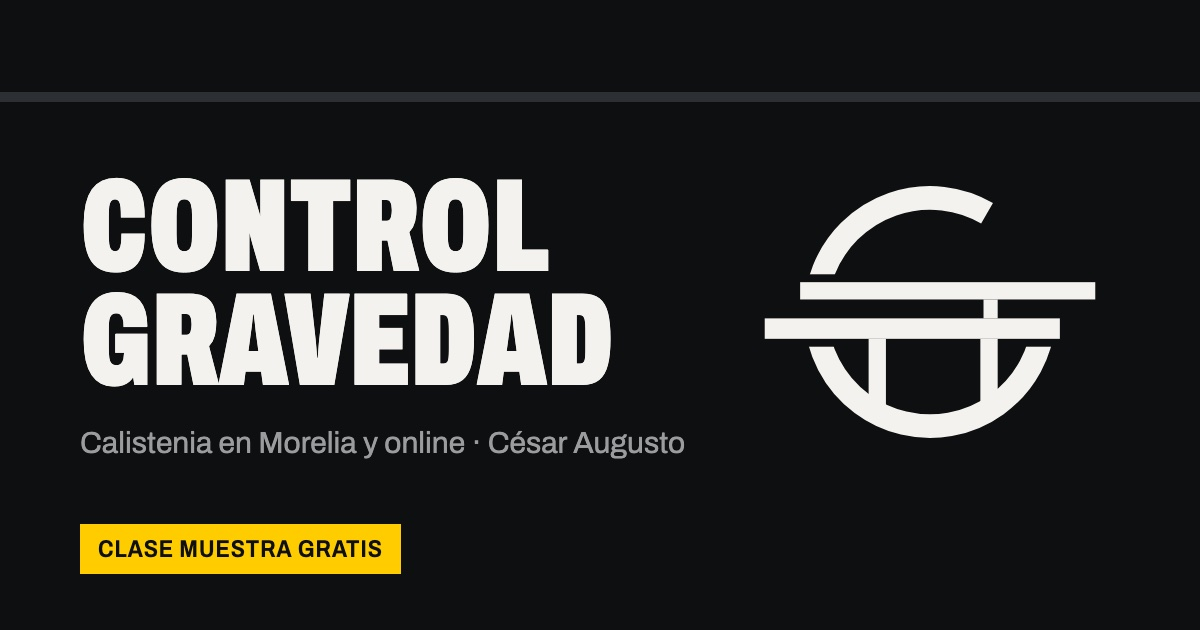
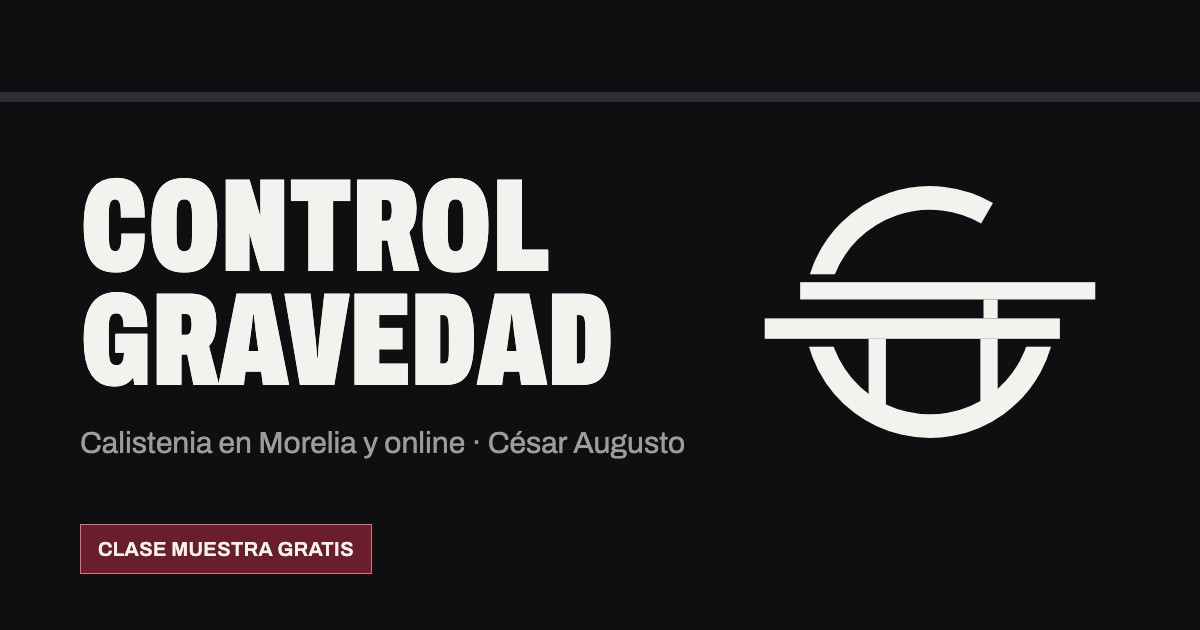
feat(T3.10): acento vino de la guía de marca
- signal: amarillo → vino #6A1E2B (hover burdeos #4F111E) con texto chalk
- signal-glow #E0707F para foco, cursor, checkbox y enlaces sobre acero
- foco en vino oscuro en las secciones claras (utilidad on-light)
- resplandor vino fijo en el CTA primario (única sombra del sistema)
- error sobre oscuro a naranja #FFA057; og-image con la etiqueta vino
- DESIGN.md, spec (T3.10, D-10, v0.9.2) y CLAUDE.md actualizados
- e2e nueva: colores del CTA y del foco en ambas superficies

Changed region(s): [[0.0617, 0.8143, 0.3392, 0.9349]]

diff --git a/src/styles/global.css b/src/styles/global.css
@@ -31,8 +31,8 @@
 }
 
 /*
- * Tokens de DESIGN.md («Gis y acero»). La paleta es provisional (spec D-10):
- * cambiarla es editar solo este bloque.
+ * Tokens de DESIGN.md («Gis y acero»). Acento vino de la guía de marca
+ * (Brand Guidelines Vol. 1, spec D-10): cambiarlo es editar solo este bloque.
  */
 @theme {
   /* Solo existen los colores de la marca. */
@@ -44,10 +44,11 @@
   --color-concrete-600: #4a4d50;
   --color-concrete-100: #d9d8d4;
   --color-chalk: #f3f2ee;
-  --color-signal: #ffcc00;
-  --color-signal-strong: #e6b800;
+  --color-signal: #6a1e2b;
+  --color-signal-strong: #4f111e;
+  --color-signal-glow: #e0707f;
   --color-whatsapp: #25d366;
-  --color-error-on-dark: #ff7a66;
+  --color-error-on-dark: #ffa057;
   --color-error-on-light: #b42318;
   --color-transparent: transparent;
   --color-current: currentColor;
@@ -116,6 +117,17 @@
   }
 
   --tap-min: 44px;
+
+  /* Resplandor vino del CTA primario: canto de 1 px (3:1+ sobre acero) y halo. */
+  --shadow-glow:
+    inset 0 0 0 1px var(--color-signal-glow),
+    0 10px 32px -10px
+      color-mix(in oklab, var(--color-signal-glow) 45%, transparent);
+}
+
+/* Secciones de concreto claro: el foco usa el vino oscuro (8:1), no el claro. */
+@utility on-light {
+  --focus-ring: var(--color-signal);
 }
 
 /* Grano de pizarrón/concreto: textura estática detrás del contenido. */
@@ -185,11 +197,11 @@
 
   ::selection {
     background-color: var(--color-signal);
-    color: var(--color-steel-950);
+    color: var(--color-chalk);
   }
 
   :focus-visible {
-    outline: 2px solid var(--color-signal);
+    outline: 2px solid var(--focus-ring, var(--color-signal-glow));
     outline-offset: 3px;
   }
 
@@ -201,7 +213,7 @@
   input,
   textarea,
   select {
-    caret-color: var(--color-signal);
+    caret-color: var(--color-signal-glow);
   }
 
   h1,

diff --git a/tests/e2e/theme.spec.ts b/tests/e2e/theme.spec.ts
@@ -1,0 +1,33 @@
+import { test, expect } from '@playwright/test';
+
+// Acento vino (D-10): el texto sobre el vino es claro y el foco se ve en las
+// dos superficies (vino claro sobre acero, vino oscuro sobre concreto).
+const WINE = 'rgb(106, 30, 43)';
+const WINE_GLOW = 'rgb(224, 112, 127)';
+const CHALK = 'rgb(243, 242, 238)';
+
+test.use({ reducedMotion: 'reduce' });
+
+test('el CTA primario es vino con texto claro', async ({ page }) => {
+  await page.goto('/');
+  const cta = page.locator('#contenido [data-track="whatsapp"]').first();
+  await expect(cta).toHaveCSS('background-color', WINE);
+  await expect(cta).toHaveCSS('color', CHALK);
+});
+
+test('el foco es vino claro sobre acero y vino oscuro sobre concreto', async ({
+  page,
+}) => {
+  await page.goto('/');
+  await page.keyboard.press('Tab');
+  await expect(page.locator(':focus-visible')).toHaveCSS(
+    'outline-color',
+    WINE_GLOW,
+  );
+
+  const summary = page.locator('#faq summary').first();
+  await summary.focus();
+  await page.keyboard.press('Shift+Tab');
+  await page.keyboard.press('Tab');
+  await expect(summary).toHaveCSS('outline-color', WINE);
+});

diff --git a/spec-drive.md b/spec-drive.md
@@ -256,8 +256,8 @@ type FaqItem   = { q: string; a: string };
 
 - La dirección visual la define **Impeccable** en modo *Persuade* y queda en `DESIGN.md` (tokens, tipografía, espaciado, componentes, movimiento). `PRODUCT.md` guarda el contexto de negocio (§1–2 de este spec).
 - Punto de partida (puede cambiar en T1.2): estilo oscuro, enérgico y deportivo; fotos protagonistas; un solo color de acento; `#25D366` reservado para WhatsApp.
-- **Dirección elegida en T1.2: «Gis y acero»** (acero negro mate, magnesia, concreto y un acento amarillo de seguridad; Archivo Variable condensada para titulares). Detalle en `DESIGN.md`. El coach había pedido tipografía elegante; el usuario levantó esa restricción al elegir esta dirección (2026-10-19).
-- **Paleta provisional (D-10):** un diseñador está definiendo la paleta oficial de la marca. Mientras llega, T1.2 propone una paleta provisional y la página se construye con ella. Por eso ningún componente usa colores sueltos: cambiar la paleta debe ser editar solo los tokens de `DESIGN.md` y `@theme`.
+- **Dirección elegida en T1.2: «Gis y acero»** (acero negro mate, magnesia, concreto y un acento amarillo de seguridad, reemplazado el 2026-10-25 por el vino de la guía de marca; Archivo Variable condensada para titulares). Detalle en `DESIGN.md`. El coach había pedido tipografía elegante; el usuario levantó esa restricción al elegir esta dirección (2026-10-19).
+- **Paleta (D-10):** T1.2 propuso una paleta provisional con acento amarillo. El 2026-10-25 llegó la guía de marca (*Brand Guidelines Vol. 1*): vino `#6A1E2B`, burdeos `#4F111E`, negro y blanco, y el amarillo se reemplazó por el vino (T3.10). Los hex se leyeron de una imagen y están por confirmar con el diseñador. Ningún componente usa colores sueltos: cambiar la paleta debe ser editar solo los tokens de `DESIGN.md` y `@theme`.
 - Los tokens de `DESIGN.md` se trasladan 1:1 a `@theme` en `global.css`. Ningún componente usa colores sueltos.
 
 ## 11. Infraestructura y despliegue (Vercel)
@@ -374,6 +374,7 @@ Cada tarea se cierra con el ciclo de §13 y su prueba e2e.
 - **T3.7 · ✅ Ola 1 · Más gis** (pedido del usuario, 2026-10-24): clases por semana dibujadas como marcas de gis en los paquetes, trazos de gis en los títulos, nube de magnesia al tocar WhatsApp, palomitas de gis en el formulario y la FAQ, y grano de pizarrón en los fondos. Motor en `src/lib/chalk.ts`.
 - **T3.8 · ✅ Ola 2 · Contar el método** (2026-10-24): línea de gis entre los 3 pasos ligada al scroll, ciclo Carga & Descarga interactivo (radios nativos + `:has()`, funciona sin JS), cinta de disciplinas que avanza solo con el scroll y transición entre páginas (View Transitions, el header persiste).
 - **T3.9 · ✅ Ola 3 · Firma** (2026-10-24): el título del Hero «siente la gravedad» bajo el puntero, la foto colgante responde con física de péndulo y anotaciones a mano informativas en Kalam recortada (14 KB; segunda familia de RNF-05), que se carga al acercarse para no afectar el LCP. *(Lighthouse: 99/100/100/100, LCP 1.88 s, CLS 0; 239 e2e en verde; JS propio ≈ 4.4 KB gzip.)*
+- **T3.10 · ✅ Acento vino de la guía de marca** (2026-10-25, branch `red-theme`) — D-10, RNF-06: `signal` pasa del amarillo al vino `#6A1E2B` (hover en burdeos `#4F111E`) con texto `chalk` encima; nuevo `signal-glow` `#E0707F` para foco, cursor y enlaces sobre acero; foco en vino oscuro en las secciones claras (`on-light`); resplandor vino en el CTA primario (única sombra del sistema); error sobre oscuro a naranja `#FFA057`. *(Tipografía de la guía, Momentum Grotesk, fuera de alcance: se queda Archivo. 275 e2e en verde, axe incluido.)*
 
 ### Fase 4 — QA y lanzamiento (→ M5)
 - **T4.1 · ✅ Completar la suite e2e** (sin JS, reduced motion, axe, WebKit) — RNF-06–08, RNF-11.
@@ -467,7 +468,7 @@ Cada tarea se cierra con el ciclo de §13 y su prueba e2e.
 - [ ] [[PENDIENTE]] Restricciones y políticas (edad mínima, salud, cupo, cancelaciones).
 - [ ] [[PENDIENTE]] Prueba social: testimonios, antes y después, número de alumnos.
 - [ ] [[PENDIENTE]] Logo.
-- [ ] [[PENDIENTE]] Paleta oficial: la define un diseñador externo (D-10); mientras tanto se usa una provisional.
+- [ ] [[PENDIENTE]] Paleta oficial: aplicada la de la guía de marca Vol. 1 (vino `#6A1E2B`, burdeos `#4F111E`); falta que el diseñador confirme los hex exactos (D-10).
 - [x] Tipografía: restricción de "elegante" levantada por el usuario en T1.2; se usa Archivo (§10, `DESIGN.md`).
 - [ ] [[PENDIENTE]] Logo en SVG oficial. Mientras tanto, `src/components/ui/Logo.astro` es un redibujo vectorial del de 150 px (también en `favicon.svg` y `og-image.jpg`).
 - [ ] [[PENDIENTE]] Preguntas frecuentes que recibe por DM.
@@ -509,7 +510,7 @@ Leyenda: 🔴 bloquea el inicio · 🟠 bloquea el diseño (T1.2) · 🟢 bloque
 | D-07 | ~~¿Dónde está publicado el sitio actual?~~ | ✅ **Resuelta: en Netlify**; se migra a Vercel (§11.1) | — |
 | D-08 | ~~¿El sitio de Netlify usa dominio propio?~~ | ✅ **Resuelta: no, usa `*.netlify.app`**. La migración es por redirección 301 (§11.1) | — |
 | D-09 | ¿Comprar un dominio propio (ej. `controlgravedad.mx`)? | Opcional, después de v1. Mejora la confianza y el SEO; en Vercel Hobby no cuesta conectarlo | — |
-| D-10 | Paleta de colores oficial | Paleta provisional propuesta en T1.2; se reemplaza por la del diseñador del coach cuando llegue (solo tokens) | Nada (el cambio llega después) |
+| D-10 | Paleta de colores oficial | Aplicada la guía de marca Vol. 1 (T3.10, 2026-10-25): acento vino en lugar del amarillo provisional. Falta confirmar los hex con el diseñador (solo tokens) | Nada (si cambian, solo tokens) |
 
 ## 19. Riesgos
 
@@ -541,3 +542,4 @@ Leyenda: 🔴 bloquea el inicio · 🟠 bloquea el diseño (T1.2) · 🟢 bloque
 | v0.8 | 2026-10-19 | T3.6: sistema de movimiento «Peso y control» (reemplaza la regla de un solo momento propio de `DESIGN.md`) |
 | v0.9 | 2026-10-24 | T3.7–T3.9: tres olas de movimiento y gis (marcas por semana, títulos marcados, nube de magnesia, línea entre pasos, ciclo interactivo, cinta de disciplinas, View Transitions, título con gravedad, foto con física, anotaciones en Kalam) |
 | v0.9.1 | 2026-10-24 | Contenido e imágenes demo con aviso visible de lo que falta (sin datos comerciales inventados); `[[PENDIENTE]]` conservados en comentarios |
+| v0.9.2 | 2026-10-25 | `nuevo-sitio` eliminada (era idéntica a `main`); el trabajo sigue en branches que salen de `main`. T3.10: acento vino de la guía de marca Vol. 1 en el branch `red-theme` (D-10 casi resuelta, faltan los hex confirmados) |

diff --git a/DESIGN.md b/DESIGN.md
@@ -1,6 +1,6 @@
 # Design · Gis y acero
 
-> Dirección visual de Control Gravedad, elegida en T1.2 (2026-10-19). Los tokens viven 1:1 en `src/styles/global.css` (`@theme`). **La paleta es provisional (spec D-10):** cuando llegue la del diseñador, se cambian solo los valores de color de este documento y de `@theme`; ningún componente usa colores sueltos.
+> Dirección visual de Control Gravedad, elegida en T1.2 (2026-10-19). Los tokens viven 1:1 en `src/styles/global.css` (`@theme`). **El acento vino sale de la guía de marca** (*Brand Guidelines Vol. 1*, 2026-10-25, spec D-10); sus hex están por confirmar con el diseñador. Si cambian, se editan solo los valores de este documento y de `@theme`; ningún componente usa colores sueltos.
 >
 > Jerarquía: `spec-drive.md` > este documento > Impeccable > Emil. El contrato de dirección completo está en `.impeccable/surfaces/src-pages-index-astro.md`.
 
@@ -12,7 +12,9 @@ La página está hecha del material del entrenamiento, no de metáforas: **acero
 
 ## Color
 
-Estrategia **contenida**: neutros de acero y concreto más un solo acento. El amarillo **solo** señala acciones (CTA, foco, selección), nunca decora.
+Estrategia **contenida**: neutros de acero y concreto más un solo acento, el **vino** de la marca. El vino **solo** señala acciones (CTA, foco, selección), nunca decora.
+
+El vino de la guía (`#6A1E2B`) se lee muy bien con texto claro encima (10.2:1), pero casi no se separa del acero (1.68:1). Por eso tiene un tono claro, `signal-glow`, para todo lo que se dibuja **directamente sobre el acero** (foco, cursor de texto, checkbox, enlaces en hover y el canto del CTA). Sobre concreto, el foco usa el vino oscuro (utilidad `on-light`, 8:1). El negro absoluto y el blanco puro de la guía se interpretan como `steel-950` y `chalk`: en OLED se ven igual y evitan el corrido del negro puro al hacer scroll.
 
 | Token | Valor | Uso |
 |---|---|---|
@@ -23,10 +25,11 @@ Estrategia **contenida**: neutros de acero y concreto más un solo acento. El am
 | `concrete-100` | `#d9d8d4` | Fondo de las secciones claras |
 | `concrete-600` | `#4a4d50` | Texto secundario sobre claro (5.96:1) |
 | `chalk` | `#f3f2ee` | Texto principal sobre oscuro (17.1:1) y trazos de gis |
-| `signal` | `#ffcc00` | Acción primaria; texto `steel-950` encima (12.7:1) |
-| `signal-strong` | `#e6b800` | Hover/active de la acción primaria |
+| `signal` | `#6a1e2b` | *Deep Wine Red.* Acción primaria; texto `chalk` encima (10.2:1). Foco sobre concreto (8:1) |
+| `signal-strong` | `#4f111e` | *Deep Burgundy.* Hover/active de la acción primaria (texto `chalk`, 13.1:1) |
+| `signal-glow` | `#e0707f` | Vino claro para dibujar sobre acero: foco, cursor, checkbox, enlace en hover, canto y halo del CTA (6.2:1 sobre `steel-950`, 5.7:1 sobre `steel-900`) |
 | `whatsapp` | `#25d366` | **Solo** el botón flotante de WhatsApp (texto `steel-950`, 9.7:1) |
-| `error-on-dark` / `error-on-light` | `#ff7a66` / `#b42318` | Mensajes de error (7.5:1 / 5.9:1) |
+| `error-on-dark` / `error-on-light` | `#ffa057` / `#b42318` | Mensajes de error (9.5:1 / 5.9:1). El de oscuro es naranja para no confundirse con `signal-glow` |
 
 Tailwind solo conoce estos colores (`--color-*: initial`), así que un color suelto no compila.
 
@@ -50,7 +53,7 @@ Las cifras de precios usan `tabular-nums`.
 ## Material y forma
 
 - **Esquinas rectas** (`radius-none`). Los campos de formulario llevan `radius-input` (2 px).
-- **Cantos de metal:** bordes de 1–2 px en `steel-700`. No hay sombras decorativas; la profundidad sale del contraste entre `steel-950` y `steel-900`.
+- **Cantos de metal:** bordes de 1–2 px en `steel-700`. No hay sombras decorativas; la profundidad sale del contraste entre `steel-950` y `steel-900`. **Única excepción:** el resplandor vino del botón primario (`shadow-glow`), que pide la guía de marca («intense wine red glows») y que además le da al CTA el canto de 3:1 que el vino solo no tiene sobre el acero.
 - **Barra:** elemento horizontal de acero (2–6 px de alto) que cruza el ancho completo. Es el separador del sistema y el soporte del calendario Carga & Descarga.
 - **Gis:** trazos en SVG con un filtro de grano (`feTurbulence`) en color `chalk`. Sirven para subrayar, contar (marcas de 4+1) y señalar dónde van las manos. Su opacidad imita el polvo y su trazo es irregular, nunca un trazo vectorial limpio.
 - **Fotos:** con tratamiento real, sin duotono neón. Mientras no haya fotos, cada hueco tiene la proporción final, fondo `steel-900`, un canto `steel-700` y una etiqueta visible `[[PENDIENTE]]`.
@@ -58,10 +61,10 @@ Las cifras de precios usan `tabular-nums`.
 
 ## Componentes
 
-- **Botón primario:** fondo `signal`, texto `steel-950`, `text-label`, alto mínimo 52 px, ícono de WhatsApp a la izquierda. Hover: `signal-strong`. Active: `scale(0.97)` en 160 ms. Foco: contorno `signal` de 2 px con separación de 3 px. Disabled: 50 % de opacidad y `cursor: not-allowed`.
+- **Botón primario:** fondo `signal`, texto `chalk`, `text-label`, alto mínimo 52 px, ícono de WhatsApp a la izquierda, canto interior de 1 px y halo en `signal-glow` (`shadow-glow`). Hover: `signal-strong` (el halo no cambia: `box-shadow` no se anima). Active: `scale(0.97)` en 160 ms. Foco: contorno `signal-glow` de 2 px con separación de 3 px. Disabled: 50 % de opacidad y `cursor: not-allowed`.
 - **Botón secundario:** sin relleno, canto de 2 px en `chalk`, texto `chalk`. Hover: relleno `chalk` y texto `steel-950`.
 - **Botón flotante de WhatsApp:** círculo de 56 px en `whatsapp`, abajo a la derecha, respetando `safe-area-inset-bottom`.
-- **Enlace:** subrayado de 1 px separado 0.2em; hover en `chalk`.
+- **Enlace:** subrayado de 1 px separado 0.2em; hover en `chalk` (en el formulario, `signal-glow`).
 - **Planes:** filas sobre la barra, **no** tarjetas iguales. Cada fila lleva el nombre, el detalle y el precio tabular alineado a la derecha.
 
 ## Espacio y retícula
@@ -144,4 +147,4 @@ Las cifras de precios usan `tabular-nums`.
 
 ## Superficies del navegador
 
-Selección en `signal` con texto `steel-950`, cursor de texto `signal`, scrollbar en `steel-700` sobre `steel-950`, foco visible en `signal` y `color-scheme: dark`.
+Selección en `signal` con texto `chalk`, cursor de texto `signal-glow`, scrollbar en `steel-700` sobre `steel-950`, foco visible en `signal-glow` (en `signal` dentro de las secciones `on-light`) y `color-scheme: dark`.

diff --git a/CLAUDE.md b/CLAUDE.md
@@ -10,7 +10,7 @@ Si la tarea **T0.0** del spec no está marcada como cerrada, **antes de hacer cu
 
 ## Estado
 
-- Branch de trabajo: `nuevo-sitio` (preview en Vercel). `main` es producción en Vercel y ya tiene el sitio nuevo; los cambios pasan a `main` solo cuando el usuario lo pide.
+- Branches de trabajo: salen de `main` (ej. `red-theme`, acento vino de la guía de marca). `nuevo-sitio` se eliminó el 2026-10-25. `main` es producción en Vercel; los cambios pasan a `main` solo cuando el usuario lo pide.
 - Progreso: ver §15 del spec (las tareas cerradas se marcan ahí).
 
 ## Comandos
